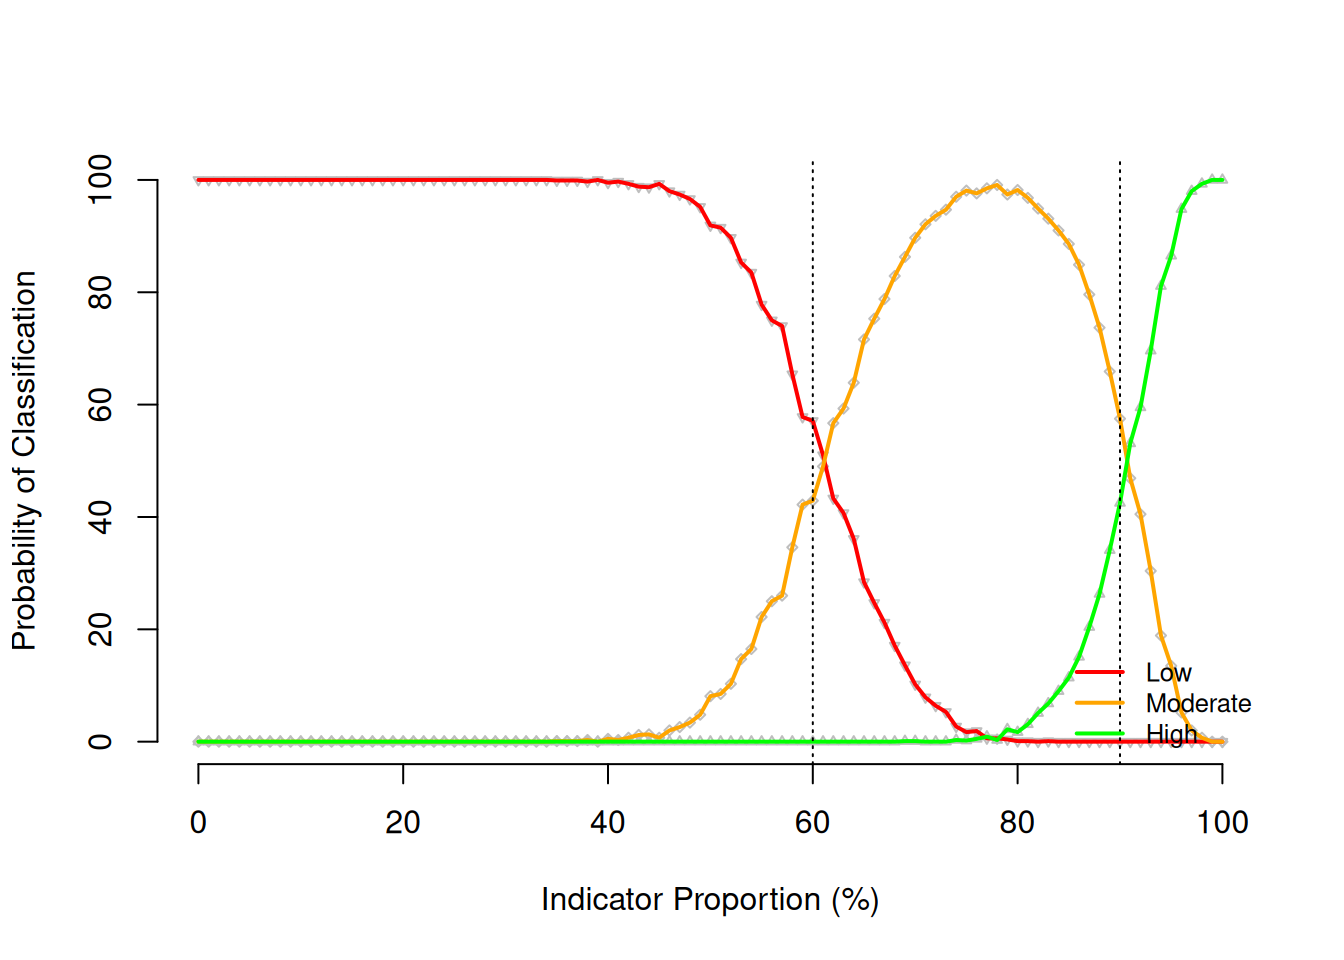
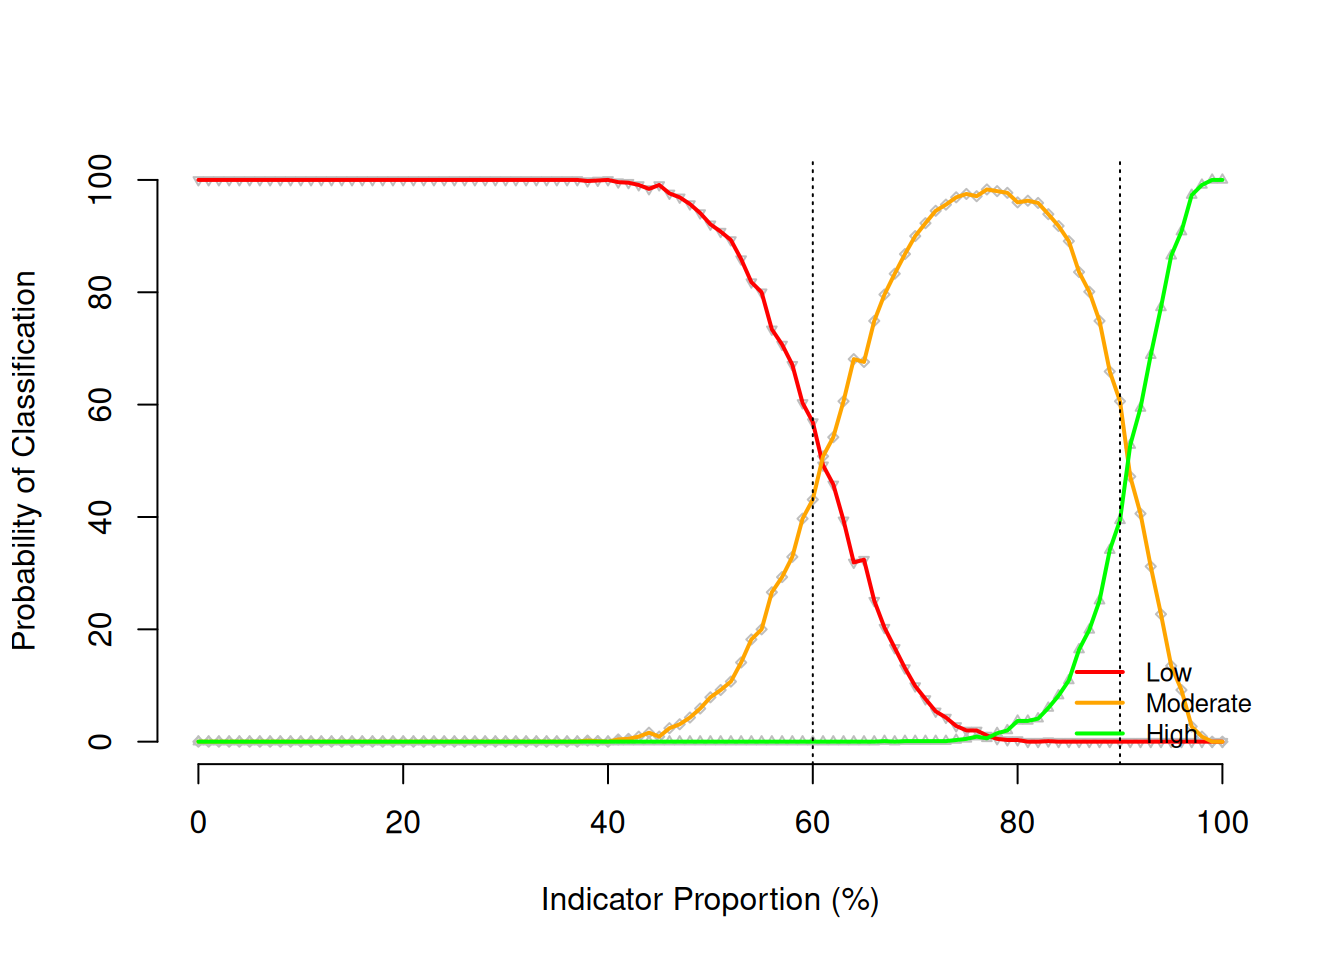
Built site for gh-pages

diff --git a/index.html b/index.html
@@ -341,7 +341,7 @@ window.Quarto = {
 <h1>Latest posts</h1>
 <div id="listing-featured-posts" class="quarto-listing quarto-listing-container-grid">
 <div class="list grid quarto-listing-cols-3">
-<div class="g-col-1" data-index="0" data-categories="bmV3cyUyQ2Fubm91bmNlbWVudA==" data-listing-date-sort="1770940800000" data-listing-file-modified-sort="1771106948485" data-listing-date-modified-sort="1771106948000" data-listing-reading-time-sort="2" data-listing-word-count-sort="397">
+<div class="g-col-1" data-index="0" data-categories="bmV3cyUyQ2Fubm91bmNlbWVudA==" data-listing-date-sort="1770940800000" data-listing-file-modified-sort="1771137863066" data-listing-date-modified-sort="1771137863000" data-listing-reading-time-sort="2" data-listing-word-count-sort="397">
 <a href="./posts/2026-02-13-welcome-to-nutriverse/index.html" class="quarto-grid-link">
 <div class="quarto-grid-item card h-100 card-left borderless">
 <p class="card-img-top">
@@ -365,7 +365,7 @@ Feb 13, 2026
 </div>
 </div></a>
 </div>
-<div class="g-col-1" data-index="1" data-categories="bmV3cyUyQ2Fubm91bmNlbWVudA==" data-listing-date-sort="1770249600000" data-listing-file-modified-sort="1771106948485" data-listing-date-modified-sort="1771106948000" data-listing-reading-time-sort="4" data-listing-word-count-sort="603">
+<div class="g-col-1" data-index="1" data-categories="bmV3cyUyQ2Fubm91bmNlbWVudA==" data-listing-date-sort="1770249600000" data-listing-file-modified-sort="1771137863066" data-listing-date-modified-sort="1771137863000" data-listing-reading-time-sort="4" data-listing-word-count-sort="603">
 <a href="./posts/2026-02-05-open-source-collective/index.html" class="quarto-grid-link">
 <div class="quarto-grid-item card h-100 card-left borderless">
 <p class="card-img-top">
@@ -389,7 +389,7 @@ Feb 5, 2026
 </div>
 </div></a>
 </div>
-<div class="g-col-1" data-index="2" data-categories="bmV3cyUyQ2Fubm91bmNlbWVudCUyQ3BhY2thZ2Vz" data-listing-date-sort="1770076800000" data-listing-file-modified-sort="1771106948485" data-listing-date-modified-sort="1771106948000" data-listing-reading-time-sort="6" data-listing-word-count-sort="1117">
+<div class="g-col-1" data-index="2" data-categories="bmV3cyUyQ2Fubm91bmNlbWVudCUyQ3BhY2thZ2Vz" data-listing-date-sort="1770076800000" data-listing-file-modified-sort="1771137863066" data-listing-date-modified-sort="1771137863000" data-listing-reading-time-sort="6" data-listing-word-count-sort="1117">
 <a href="./posts/2026-02-03-sleacr-release/index.html" class="quarto-grid-link">
 <div class="quarto-grid-item card h-100 card-left borderless">
 <p class="card-img-top">
@@ -423,7 +423,7 @@ Feb 3, 2026
 <h1>Featured packages</h1>
 <div id="listing-featured-packages" class="quarto-listing quarto-listing-container-grid">
 <div class="list grid quarto-listing-cols-3">
-<div class="g-col-1" data-index="0" data-listing-file-modified-sort="1771106948484" data-listing-reading-time-sort="2" data-listing-word-count-sort="280">
+<div class="g-col-1" data-index="0" data-listing-file-modified-sort="1771137863065" data-listing-reading-time-sort="2" data-listing-word-count-sort="280">
 <a href="./packages/nipnTK.html" class="quarto-grid-link">
 <div class="quarto-grid-item card h-100 card-left borderless">
 <p class="card-img-top">
@@ -444,7 +444,7 @@ nipnTK: National Information Platforms for Nutrition (NiPN) Data Quality Toolkit
 </div>
 </div></a>
 </div>
-<div class="g-col-1" data-index="1" data-listing-file-modified-sort="1771106948484" data-listing-reading-time-sort="2" data-listing-word-count-sort="238">
+<div class="g-col-1" data-index="1" data-listing-file-modified-sort="1771137863065" data-listing-reading-time-sort="2" data-listing-word-count-sort="238">
 <a href="./packages/sleacr.html" class="quarto-grid-link">
 <div class="quarto-grid-item card h-100 card-left borderless">
 <p class="card-img-top">
@@ -465,7 +465,7 @@ sleacr: Simplified Lot Quality Assurance Sampling Evaluation of Access and Cover
 </div>
 </div></a>
 </div>
-<div class="g-col-1" data-index="2" data-listing-file-modified-sort="1771106948484" data-listing-reading-time-sort="2" data-listing-word-count-sort="263">
+<div class="g-col-1" data-index="2" data-listing-file-modified-sort="1771137863065" data-listing-reading-time-sort="2" data-listing-word-count-sort="263">
 <a href="./packages/zscorer.html" class="quarto-grid-link">
 <div class="quarto-grid-item card h-100 card-left borderless">
 <p class="card-img-top">

diff --git a/blog.html b/blog.html
@@ -306,7 +306,7 @@ window.Quarto = {
 
 <div class="quarto-listing quarto-listing-container-default" id="listing-listing">
 <div class="list quarto-listing-default">
-<div class="quarto-post image-right" data-index="0" data-categories="bmV3cyUyQ2Fubm91bmNlbWVudA==" data-listing-date-sort="1770940800000" data-listing-file-modified-sort="1771106948485" data-listing-date-modified-sort="1771106948000" data-listing-reading-time-sort="2" data-listing-word-count-sort="397">
+<div class="quarto-post image-right" data-index="0" data-categories="bmV3cyUyQ2Fubm91bmNlbWVudA==" data-listing-date-sort="1770940800000" data-listing-file-modified-sort="1771137863066" data-listing-date-modified-sort="1771137863000" data-listing-reading-time-sort="2" data-listing-word-count-sort="397">
 <div class="thumbnail"><a href="./posts/2026-02-13-welcome-to-nutriverse/index.html" class="no-external">
 
 <img loading="lazy" src="./images/nutriverse.png" class="thumbnail-image">
@@ -341,7 +341,7 @@ Ernest Guevarra
 </a>
 </div>
 </div>
-<div class="quarto-post image-right" data-index="1" data-categories="bmV3cyUyQ2Fubm91bmNlbWVudA==" data-listing-date-sort="1770249600000" data-listing-file-modified-sort="1771106948485" data-listing-date-modified-sort="1771106948000" data-listing-reading-time-sort="4" data-listing-word-count-sort="603">
+<div class="quarto-post image-right" data-index="1" data-categories="bmV3cyUyQ2Fubm91bmNlbWVudA==" data-listing-date-sort="1770249600000" data-listing-file-modified-sort="1771137863066" data-listing-date-modified-sort="1771137863000" data-listing-reading-time-sort="4" data-listing-word-count-sort="603">
 <div class="thumbnail"><a href="./posts/2026-02-05-open-source-collective/index.html" class="no-external">
 
 <img loading="lazy" src="./images/osc_logo.png" class="thumbnail-image">
@@ -376,7 +376,7 @@ Ernest Guevarra
 </a>
 </div>
 </div>
-<div class="quarto-post image-right" data-index="2" data-categories="bmV3cyUyQ2Fubm91bmNlbWVudCUyQ3BhY2thZ2Vz" data-listing-date-sort="1770076800000" data-listing-file-modified-sort="1771106948485" data-listing-date-modified-sort="1771106948000" data-listing-reading-time-sort="6" data-listing-word-count-sort="1117">
+<div class="quarto-post image-right" data-index="2" data-categories="bmV3cyUyQ2Fubm91bmNlbWVudCUyQ3BhY2thZ2Vz" data-listing-date-sort="1770076800000" data-listing-file-modified-sort="1771137863066" data-listing-date-modified-sort="1771137863000" data-listing-reading-time-sort="6" data-listing-word-count-sort="1117">
 <div class="thumbnail"><a href="./posts/2026-02-03-sleacr-release/index.html" class="no-external">
 
 <img loading="lazy" src="./images/sleacr.png" class="thumbnail-image">
@@ -413,7 +413,7 @@ Ernest Guevarra
 </a>
 </div>
 </div>
-<div class="quarto-post image-right" data-index="3" data-categories="bmV3cyUyQ3BhY2thZ2Vz" data-listing-date-sort="1769904000000" data-listing-file-modified-sort="1771106948485" data-listing-date-modified-sort="1771106948000" data-listing-reading-time-sort="1" data-listing-word-count-sort="173">
+<div class="quarto-post image-right" data-index="3" data-categories="bmV3cyUyQ3BhY2thZ2Vz" data-listing-date-sort="1769904000000" data-listing-file-modified-sort="1771137863066" data-listing-date-modified-sort="1771137863000" data-listing-reading-time-sort="1" data-listing-word-count-sort="173">
 <div class="thumbnail"><a href="./posts/2026-02-01-package-updates/index.html" class="no-external">
 
 <img loading="lazy" src="./images/nipnTK.png" class="thumbnail-image">
@@ -448,7 +448,7 @@ Ernest Guevarra
 </a>
 </div>
 </div>
-<div class="quarto-post image-right" data-index="4" data-categories="bmV3cyUyQ21vbnRobHktcm91bmQtdXA=" data-listing-date-sort="1769472000000" data-listing-file-modified-sort="1771106948485" data-listing-date-modified-sort="1771106948000" data-listing-reading-time-sort="1" data-listing-word-count-sort="198">
+<div class="quarto-post image-right" data-index="4" data-categories="bmV3cyUyQ21vbnRobHktcm91bmQtdXA=" data-listing-date-sort="1769472000000" data-listing-file-modified-sort="1771137863066" data-listing-date-modified-sort="1771137863000" data-listing-reading-time-sort="1" data-listing-word-count-sort="198">
 <div class="thumbnail"><a href="./posts/2026-01-27-monthly-roundup/index.html" class="no-external">
 
 <img loading="lazy" src="./images/nutriverse.png" class="thumbnail-image">

diff --git a/events/2026-02-27-nutriverse-launch.html b/events/2026-02-27-nutriverse-launch.html
@@ -7,8 +7,8 @@
 <meta name="viewport" content="width=device-width, initial-scale=1.0, user-scalable=yes">
 
 <meta name="author" content="Ernest Guevarra">
-<meta name="dcterms.date" content="2026-02-14">
-<meta name="description" content="Join us online for the nutriverse project launch on Friday, 27 February 2026 to learn more about nutriverse, meet its core team members, get introduced to its community of practice">
+<meta name="dcterms.date" content="2026-02-15">
+<meta name="description" content="Join us online for the nutriverse project launch on Friday, 27 February 2026 to know more about the nutriverse, meet its core team members, get introduced to its community of practice, and learn how you can contribute">
 
 <title>nutriverse Project Launch – nutriverse</title>
 <style>
@@ -122,11 +122,11 @@ background: #E4F0EF;
 
 <link rel="stylesheet" href="../styles.css">
 <meta property="og:title" content="nutriverse Project Launch – nutriverse">
-<meta property="og:description" content="Join us online for the nutriverse project launch on Friday, 27 February 2026 to learn more about nutriverse, meet its core team members, get introduced to its community of practice">
-<meta property="og:image" content="https://nutriverse.io/images/nutriverse_project_launch.png">
+<meta property="og:description" content="Join us online for the nutriverse project launch on Friday, 27 February 2026 to know more about the nutriverse, meet its core team members, get introduced to its community of practice, and learn how you can contribute">
+<meta property="og:image" content="https://nutriverse.io/images/nutriverse_banner.png">
 <meta property="og:site_name" content="nutriverse">
-<meta property="og:image:height" content="1536">
-<meta property="og:image:width" content="2816">
+<meta property="og:image:height" content="451">
+<meta property="og:image:width" content="827">
 </head>
 
 <body class="nav-fixed quarto-light">
@@ -221,7 +221,7 @@ background: #E4F0EF;
             <p class="subtitle lead">Online launch of the nutriverse project</p>
                   <div>
         <div class="description">
-          <p>Join us online for the nutriverse project launch on Friday, 27 February 2026 to learn more about nutriverse, meet its core team members, get introduced to its community of practice</p>
+          <p>Join us online for the nutriverse project launch on Friday, 27 February 2026 to know more about the nutriverse, meet its core team members, get introduced to its community of practice, and learn how you can contribute</p>
         </div>
       </div>
                 </div>
@@ -240,7 +240,7 @@ background: #E4F0EF;
       <div>
       <div class="quarto-title-meta-heading">Published</div>
       <div class="quarto-title-meta-contents">
-        <p class="date">14 February 2026</p>
+        <p class="date">15 February 2026</p>
       </div>
     </div>
     
@@ -267,7 +267,12 @@ background: #E4F0EF;
 <strong>Venue:</strong> Online via Zoom</p>
 </div></div><p>We will be launching the <strong>nutriverse</strong>, an <em>open-source project</em>, a <em>collective</em>, and a <em>community-of-practice</em>.</p>
 <p>We will present on how <strong>nutriverse</strong> came to be, <em>who the core team members</em> are, <em>what tools and products</em> we have created and made available to the nutrition community-at-large, and our plans for <em>more tools development</em> and in <em>growing this community of practice</em>.</p>
-<p>The nutriverse Project Launch will be online in a webinar format and held at three different one hour periods on the 27th of February 2026 to cater for a global audience participating at different time zones.</p>
+<div class="quarto-figure quarto-figure-center">
+<figure class="figure">
+<p><img src="../images/nutriverse_launch_banner.png" class="img-fluid quarto-figure quarto-figure-center figure-img"></p>
+</figure>
+</div>
+<p>The <strong>nutriverse project launch</strong> will be online in a webinar format and held at three different one hour periods on the 27th of February 2026 to cater for a global audience participating at different time zones.</p>
 <ul>
 <li><p>08:00 - 09:00 GMT - this time period will hopefully cater for those from Asia Pacific</p></li>
 <li><p>14:00 - 15:00 GMT - this time period will hopefully cater for those from UK, Europe, and Africa</p></li>

diff --git a/about/team.html b/about/team.html
@@ -283,7 +283,7 @@ window.Quarto = {
 
 <div class="quarto-listing quarto-listing-container-grid" id="listing-listing">
 <div class="list grid quarto-listing-cols-3">
-<div class="g-col-1" data-index="0" data-listing-file-modified-sort="1771106948486" data-listing-reading-time-sort="1" data-listing-word-count-sort="84">
+<div class="g-col-1" data-index="0" data-listing-file-modified-sort="1771137863066" data-listing-reading-time-sort="1" data-listing-word-count-sort="84">
 <a href="../team/aziz-goza.html" class="quarto-grid-link">
 <div class="quarto-grid-item card h-100 card-left borderless">
 <p class="card-img-top">
@@ -304,7 +304,7 @@ Aziz has strong expertise in nutrition issues management (planning, implementati
 </div>
 </div></a>
 </div>
-<div class="g-col-1" data-index="1" data-listing-file-modified-sort="1771106948486" data-listing-reading-time-sort="2" data-listing-word-count-sort="353">
+<div class="g-col-1" data-index="1" data-listing-file-modified-sort="1771137863067" data-listing-reading-time-sort="2" data-listing-word-count-sort="353">
 <a href="../team/emmanuel-mandalazi.html" class="quarto-grid-link">
 <div class="quarto-grid-item card h-100 card-left borderless">
 <p class="card-img-top">
@@ -325,7 +325,7 @@ An experienced nutrition and public health specialist with over 15 years’ expe
 </div>
 </div></a>
 </div>
-<div class="g-col-1" data-index="2" data-listing-file-modified-sort="1771106948486" data-listing-reading-time-sort="2" data-listing-word-count-sort="359">
+<div class="g-col-1" data-index="2" data-listing-file-modified-sort="1771137863067" data-listing-reading-time-sort="2" data-listing-word-count-sort="359">
 <a href="../team/ernest-guevarra.html" class="quarto-grid-link">
 <div class="quarto-grid-item card h-100 card-left borderless">
 <p class="card-img-top">
@@ -346,7 +346,7 @@ I am an independent public health consultant with more than 20 years of professi
 </div>
 </div></a>
 </div>
-<div class="g-col-1" data-index="3" data-listing-file-modified-sort="1771106948486" data-listing-reading-time-sort="2" data-listing-word-count-sort="290">
+<div class="g-col-1" data-index="3" data-listing-file-modified-sort="1771137863067" data-listing-reading-time-sort="2" data-listing-word-count-sort="290">
 <a href="../team/nicholus-tint-zaw.html" class="quarto-grid-link">
 <div class="quarto-grid-item card h-100 card-left borderless">
 <p class="card-img-top">
@@ -367,7 +367,7 @@ Nicholus Tint Zaw is a highly accomplished professional with a strong background
 </div>
 </div></a>
 </div>
-<div class="g-col-1" data-index="4" data-listing-file-modified-sort="1771106948486" data-listing-reading-time-sort="2" data-listing-word-count-sort="322">
+<div class="g-col-1" data-index="4" data-listing-file-modified-sort="1771137863067" data-listing-reading-time-sort="2" data-listing-word-count-sort="322">
 <a href="../team/tomas-zaba.html" class="quarto-grid-link">
 <div class="quarto-grid-item card h-100 card-left borderless">
 <p class="card-img-top">

diff --git a/events/index.html b/events/index.html
@@ -180,10 +180,10 @@ window.Quarto = {
 <link rel="stylesheet" href="../styles.css">
 <meta property="og:title" content="Events – nutriverse">
 <meta property="og:description" content="Upcoming events including those in which our team members are speaking and/or participating">
-<meta property="og:image" content="https://nutriverse.io/images/nutriverse_project_launch.png">
+<meta property="og:image" content="https://nutriverse.io/images/nutriverse_banner.png">
 <meta property="og:site_name" content="nutriverse">
-<meta property="og:image:height" content="1536">
-<meta property="og:image:width" content="2816">
+<meta property="og:image:height" content="451">
+<meta property="og:image:width" content="827">
 </head>
 
 <body class="nav-fixed quarto-light">
@@ -301,10 +301,10 @@ window.Quarto = {
 
 <div id="listing-current-events" class="quarto-listing quarto-listing-container-default">
 <div class="list quarto-listing-default">
-<div class="quarto-post image-left" data-index="0" data-listing-date-sort="1771106948000" data-listing-file-modified-sort="1771106948387" data-listing-date-modified-sort="NaN" data-listing-reading-time-sort="2" data-listing-word-count-sort="287">
+<div class="quarto-post image-left" data-index="0" data-listing-date-sort="1771137863000" data-listing-file-modified-sort="1771137863010" data-listing-date-modified-sort="NaN" data-listing-reading-time-sort="2" data-listing-word-count-sort="287">
 <div class="thumbnail"><a href="../events/2026-02-27-nutriverse-launch.html" class="no-external">
 
-<img loading="lazy" src="../images/nutriverse_project_launch.png" class="thumbnail-image" style="height: 200px;">
+<img loading="lazy" src="../images/nutriverse_banner.png" class="thumbnail-image" style="height: 200px;">
 
 </a></div>
 <div class="body">
@@ -315,7 +315,7 @@ window.Quarto = {
 <a href="../events/2026-02-27-nutriverse-launch.html" class="no-external">Online launch of the nutriverse project</a>
 </div>
 <div class="delink listing-description"><a href="../events/2026-02-27-nutriverse-launch.html" class="no-external">
-<p>Join us online for the nutriverse project launch on Friday, 27 February 2026 to learn more about nutriverse, meet its core team members, get introduced to its community of practice</p>
+<p>Join us online for the nutriverse project launch on Friday, 27 February 2026 to know more about the nutriverse, meet its core team members, get introduced to its community of practice, and learn how you can contribute</p>
 </a></div>
 </div>
 <div class="metadata">

diff --git a/posts/2026-02-03-sleacr-release/index.html b/posts/2026-02-03-sleacr-release/index.html
@@ -287,7 +287,7 @@ background: #E4F0EF;
       <div>
       <div class="quarto-title-meta-heading">Modified</div>
       <div class="quarto-title-meta-contents">
-        <p class="date-modified">14 February 2026</p>
+        <p class="date-modified">15 February 2026</p>
       </div>
     </div>
       
@@ -737,10 +737,10 @@ $beta
 <span id="cb12-6"><a href="#cb12-6" aria-hidden="true" tabindex="-1"></a><span class="do">## Get classification probabilities ----</span></span>
 <span id="cb12-7"><a href="#cb12-7" aria-hidden="true" tabindex="-1"></a><span class="fu">lqas_get_class_prob</span>(lqas_sim_pop)</span></code></pre></div><button title="Copy to Clipboard" class="code-copy-button"><i class="bi"></i></button></div>
 <div class="cell-output cell-output-stdout">
-<pre><code>                    Low : 0.9552
-               Moderate : 0.8353
-                   High : 0.8419
-                Overall : 0.9079
+<pre><code>                    Low : 0.9547
+               Moderate : 0.8373
+                   High : 0.832
+                Overall : 0.9072
 Gross misclassification : 0</code></pre>
 </div>
 </div>

diff --git a/posts/2026-01-27-monthly-roundup/index.html b/posts/2026-01-27-monthly-roundup/index.html
@@ -251,7 +251,7 @@ background: #E4F0EF;
       <div>
       <div class="quarto-title-meta-heading">Modified</div>
       <div class="quarto-title-meta-contents">
-        <p class="date-modified">14 February 2026</p>
+        <p class="date-modified">15 February 2026</p>
       </div>
     </div>
       

diff --git a/posts/2026-02-01-package-updates/index.html b/posts/2026-02-01-package-updates/index.html
@@ -251,7 +251,7 @@ background: #E4F0EF;
       <div>
       <div class="quarto-title-meta-heading">Modified</div>
       <div class="quarto-title-meta-contents">
-        <p class="date-modified">14 February 2026</p>
+        <p class="date-modified">15 February 2026</p>
       </div>
     </div>
       

diff --git a/posts/2026-02-05-open-source-collective/index.html b/posts/2026-02-05-open-source-collective/index.html
@@ -251,7 +251,7 @@ background: #E4F0EF;
       <div>
       <div class="quarto-title-meta-heading">Modified</div>
       <div class="quarto-title-meta-contents">
-        <p class="date-modified">14 February 2026</p>
+        <p class="date-modified">15 February 2026</p>
       </div>
     </div>
       

diff --git a/posts/2026-02-13-welcome-to-nutriverse/index.html b/posts/2026-02-13-welcome-to-nutriverse/index.html
@@ -251,7 +251,7 @@ background: #E4F0EF;
       <div>
       <div class="quarto-title-meta-heading">Modified</div>
       <div class="quarto-title-meta-contents">
-        <p class="date-modified">14 February 2026</p>
+        <p class="date-modified">15 February 2026</p>
       </div>
     </div>
       
